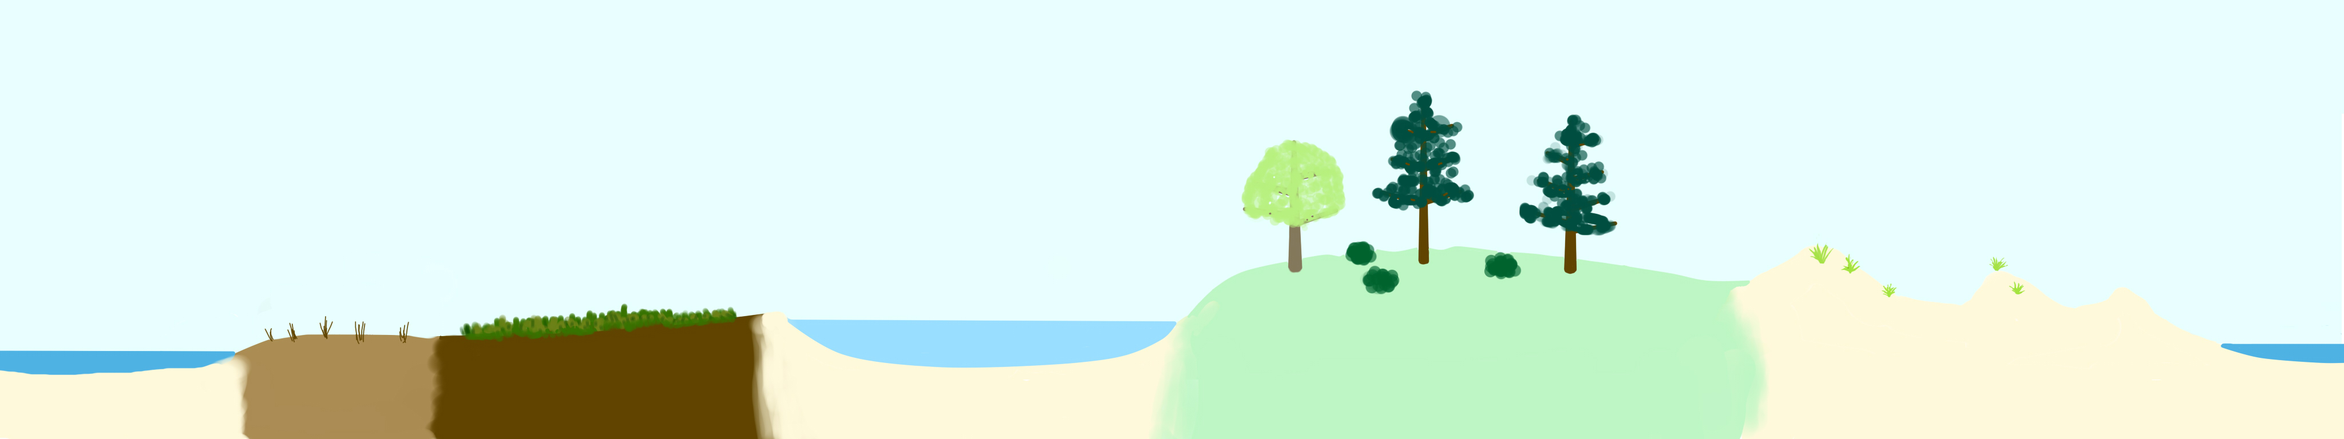
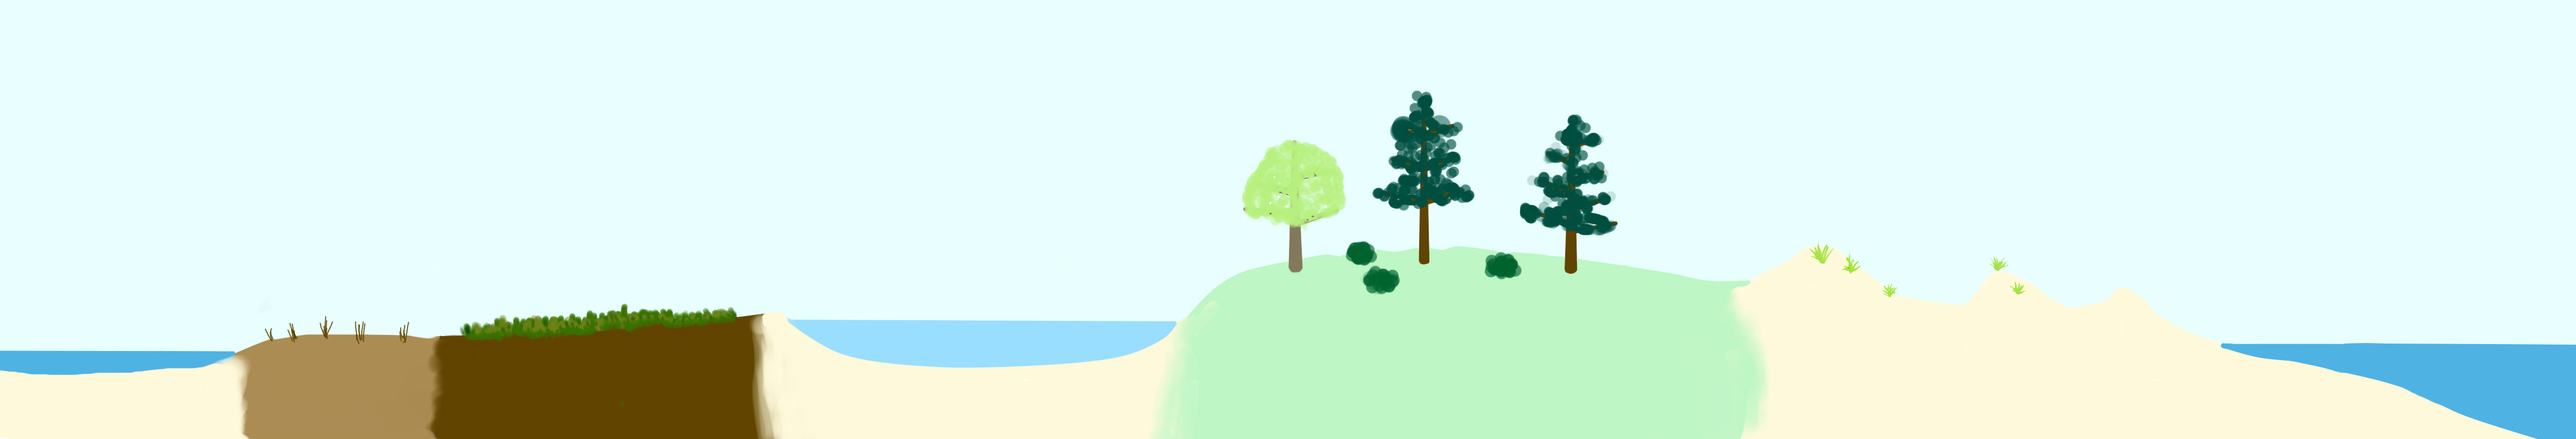
Stuff

Changed region(s): [[0.0625, 0.2188, 1.0, 1.0]]

diff --git a/animation/sketch.js b/animation/sketch.js
@@ -27,31 +27,35 @@ function draw() {
     document.getElementById("Section").innerHTML = "Mud Flat";
     document.getElementById("Fact").innerHTML = "A coastal wetland in which much is deposited by tides.";
   }
-  else if(slider.value>48 && slider.value<=90){
+  else if(slider.value>48 && slider.value<=83){
     document.getElementById("Section").innerHTML = "Salt Marsh";
     document.getElementById("Fact").innerHTML = "An ecosystem in the upper coastal intertidal zone between land and open salt water that is regularly flooded by the tides.";
   }
-  else if(slider.value>90 && slider.value<=140){
+  else if(slider.value>83 && slider.value<=130){
     document.getElementById("Section").innerHTML = "Tidal Creek";
     document.getElementById("Fact").innerHTML = "A channel that is affected by the flow of ocean tides.";
   }
-  else if(slider.value>140 && slider.value<=212){
+  else if(slider.value>130 && slider.value<=193){
     document.getElementById("Section").innerHTML = "Maritime Forest";
     document.getElementById("Fact").innerHTML = "An ocean coastal wooded habitat found on higher ground than dune areas within range of salt spray.";
   }
-  else if(slider.value>212 && slider.value<=248){
+  else if(slider.value>193 && slider.value<=245){
     document.getElementById("Section").innerHTML = "Dunes";
     document.getElementById("Fact").innerHTML = "A mound or ridge of sand formed by the wind.";
   }
-  else if(slider.value>248 && slider.value<=250){
+  else if(slider.value>245 && slider.value<=254){
     document.getElementById("Section").innerHTML = "Intertidal";
     document.getElementById("Fact").innerHTML = "The area between tide marks.";
+  }
+  else if(slider.value>254 && slider.value<=256){
+    document.getElementById("Section").innerHTML = "Ocean";
+    document.getElementById("Fact").innerHTML = "A large expanse of sea.";
   }
 
 
 
   rotateY(-slider.value/45);
 
-  cylinder(652.229/1.8, 768/1.8);
+  cylinder(752.229/1.8, 768/1.8);
   texture(kitten);
 }

diff --git a/animation/tidal.html b/animation/tidal.html
@@ -12,7 +12,8 @@ body {
   right: 0;
   bottom: 0;
   left: 0;
-  font-family: Helvetica, Arial;
+  color: #333333;
+  font-family: "Century Gothic", CenturyGothic, AppleGothic, sans-serif;
 }
 #container {
   position: relative;
@@ -46,6 +47,29 @@ body {
   margin: auto;
   background: white;
   padding: 5px;
+}
+.h2{
+
+	font-size: 80px;
+	font-variant: normal;
+	font-weight: 100;
+  font-style: italic;
+}
+.h1{
+
+	font-size: 120px;
+	font-variant: normal;
+	font-weight: 100;
+  font-style: italic;
+}
+.p{
+  .h2{
+
+  	font-size: 50px;
+  	font-variant: normal;
+  	font-weight: 100;
+    font-style: italic;
+  }
 }
 /*
 
@@ -278,7 +302,7 @@ var path = svg.append("g")
           return amp * Math.sin(freq * (e + speed * t));
       });
     });
-    
+
 d3.timer(function() {
     if (scrollTop !== newScrollTop) {
     scrollTop = newScrollTop

diff --git a/animation/island.html b/animation/island.html
@@ -225,7 +225,7 @@ div.relative {
   <p id = "Section" class = "text"></p>
   <p id = "Fact" class = "text"></p>
   <div class="""slidecontainer">
-  <input type="range" min="27" max="250" value="138.5" class="slider" id="myRange">
+  <input type="range" min="27" max="256" value="141.5" class="slider" id="myRange">
   </div>
 </div>
 
